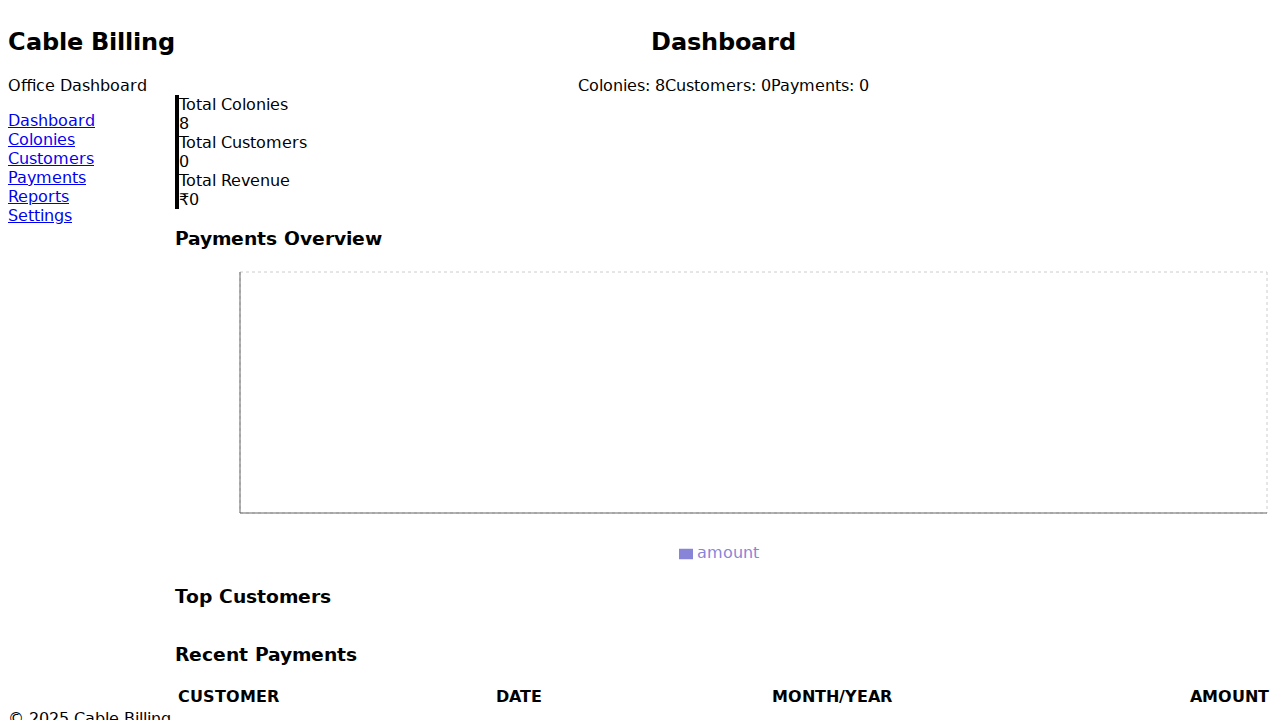
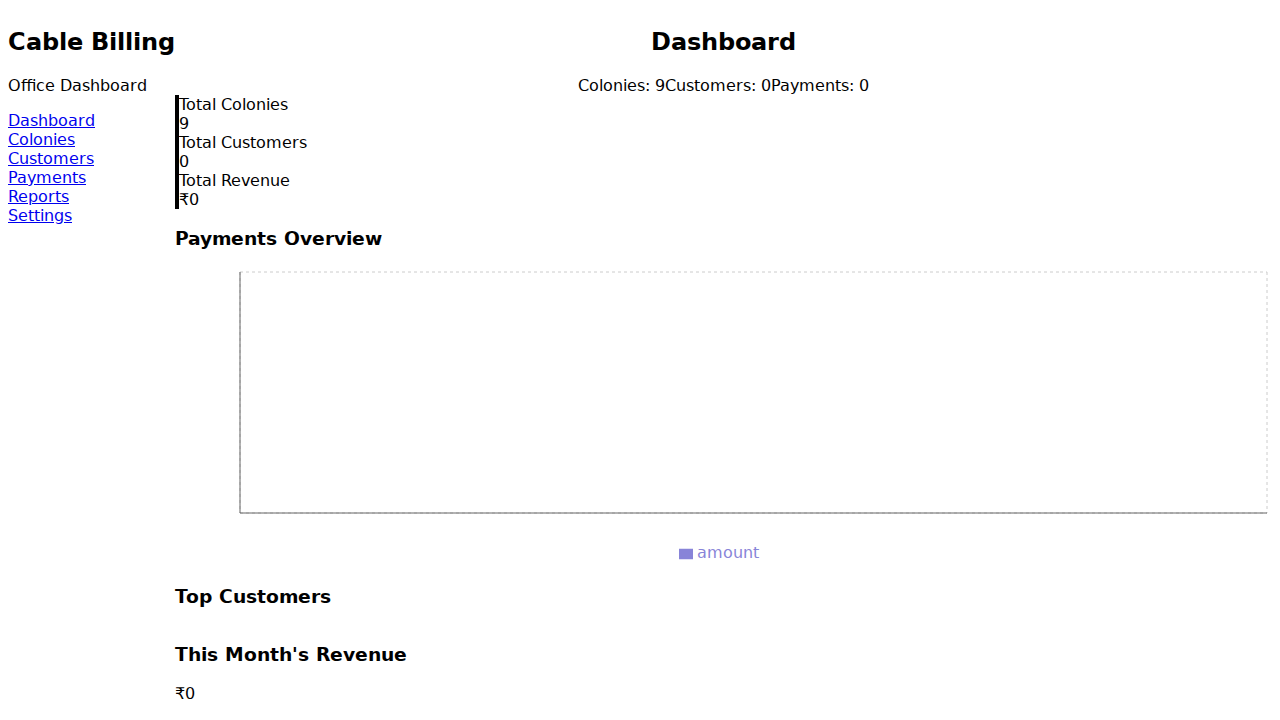
feat: Improve dashboard UI and add new features
This commit introduces several improvements to the dashboard:

- **New Features:**
  - A payments overview chart to visualize payments over time.
  - A list of top customers by payment amount.
  - A restyled recent payments table.
  - A monthly revenue summary.
  - A payment history page for each customer.
  - A feature to automatically calculate the outstanding balance for each customer.
- **Styling:**
  - Updated the design of the `StatsCard` component.
  - Added a header to the dashboard page.
- **Refactoring:**
  - Created separate components for the payments chart, recent payments table, top customers list, and monthly revenue summary.
- **Project Setup:**
  - Added a `.gitignore` file to the root directory.
  - Updated the `README.md` file with more details about the project.
- **Backend:**
  - Updated the MongoDB connection string.
  - Added better error handling for the database connection.
  - Added a new field to the `Customer` model to track the outstanding balance.
  - Updated the payment creation route to automatically adjust the customer's outstanding balance.
  - Added a new API endpoint to get the payment history for a specific customer.
  - Added a new route to manually trigger the calculation of the outstanding balance for all customers.

diff --git a/frontend/src/pages/PaymentHistory.jsx b/frontend/src/pages/PaymentHistory.jsx
@@ -1,0 +1,57 @@
+import React, { useEffect, useState } from "react";
+import { useParams, Link } from "react-router-dom";
+import axios from "axios";
+
+const API = "http://localhost:5000/api";
+
+function PaymentHistory() {
+  const { customerId } = useParams();
+  const [payments, setPayments] = useState([]);
+  const [customer, setCustomer] = useState(null);
+
+  useEffect(() => {
+    axios.get(`${API}/customers/${customerId}`).then(res => setCustomer(res.data));
+    axios.get(`${API}/payments/history/${customerId}`).then(res => setPayments(res.data));
+  }, [customerId]);
+
+  return (
+    <div className="p-8">
+      <Link to="/customers" className="text-blue-500 hover:underline mb-4 inline-block">&larr; Back to Customers</Link>
+      {customer && (
+        <h2 className="text-2xl font-bold mb-8 text-gray-800">
+          Payment History for {customer.name}
+        </h2>
+      )}
+      <div className="bg-white rounded-xl shadow-lg p-6">
+        <div className="overflow-x-auto">
+          <table className="min-w-full bg-white">
+            <thead className="bg-gray-200 text-gray-600 uppercase text-sm leading-normal">
+              <tr>
+                <th className="py-3 px-6 text-left">Date</th>
+                <th className="py-3 px-6 text-center">Month/Year</th>
+                <th className="py-3 px-6 text-right">Amount</th>
+              </tr>
+            </thead>
+            <tbody className="text-gray-600 text-sm font-light">
+              {payments.map(p => (
+                <tr key={p._id} className="border-b border-gray-200 hover:bg-gray-100">
+                  <td className="py-3 px-6 text-left">
+                    {p.payment_date ? new Date(p.payment_date).toLocaleDateString() : "N/A"}
+                  </td>
+                  <td className="py-3 px-6 text-center">
+                    {p.month}/{p.year}
+                  </td>
+                  <td className="py-3 px-6 text-right font-semibold">
+                    ₹{p.amount_paid}
+                  </td>
+                </tr>
+              ))}
+            </tbody>
+          </table>
+        </div>
+      </div>
+    </div>
+  );
+}
+
+export default PaymentHistory;

diff --git a/frontend/src/components/CustomerList.jsx b/frontend/src/components/CustomerList.jsx
@@ -1,4 +1,5 @@
 import React from "react";
+import { Link } from "react-router-dom";
 
 function CustomerList({ customers }) {
   return (
@@ -18,7 +19,9 @@ function CustomerList({ customers }) {
             <th className="border px-2 py-1">Type</th>
             <th className="border px-2 py-1">Plan</th>
             <th className="border px-2 py-1">Charge</th>
+            <th className="border px-2 py-1">Outstanding Balance</th>
             <th className="border px-2 py-1">Status</th>
+            <th className="border px-2 py-1">Actions</th>
           </tr>
         </thead>
         <tbody>
@@ -35,7 +38,13 @@ function CustomerList({ customers }) {
               <td className="border px-2 py-1">{c.connection_type}</td>
               <td className="border px-2 py-1">{c.plan}</td>
               <td className="border px-2 py-1">{c.monthly_charge}</td>
+              <td className="border px-2 py-1">₹{c.outstanding_balance}</td>
               <td className="border px-2 py-1">{c.status}</td>
+              <td className="border px-2 py-1">
+                <Link to={`/payment-history/${c._id}`} className="text-blue-500 hover:underline">
+                  View History
+                </Link>
+              </td>
             </tr>
           ))}
         </tbody>

diff --git a/backend/routes/customerRoutes.js b/backend/routes/customerRoutes.js
@@ -1,5 +1,6 @@
 const express = require("express");
 const Customer = require("../models/Customer");
+const Payment = require("../models/Payment");
 const router = express.Router();
 
 // Get all customers
@@ -20,3 +21,25 @@ router.post("/", async (req, res) => {
 });
 
 module.exports = router;
+
+// Calculate outstanding balance for all customers
+router.post("/calculate-outstanding", async (req, res) => {
+  try {
+    const customers = await Customer.find();
+    for (const customer of customers) {
+      const payments = await Payment.find({ customer_id: customer._id });
+      const totalPaid = payments.reduce((sum, p) => sum + p.amount_paid, 0);
+
+      const today = new Date();
+      const connectionDate = new Date(customer.connection_date);
+      const months = (today.getFullYear() - connectionDate.getFullYear()) * 12 + (today.getMonth() - connectionDate.getMonth());
+      const totalCharged = months * customer.monthly_charge;
+
+      customer.outstanding_balance = totalCharged - totalPaid;
+      await customer.save();
+    }
+    res.json({ message: "Outstanding balances calculated successfully." });
+  } catch (err) {
+    res.status(400).json({ error: err.message });
+  }
+});

diff --git a/frontend/src/components/MonthlyRevenue.jsx b/frontend/src/components/MonthlyRevenue.jsx
@@ -1,0 +1,33 @@
+import React, { useEffect, useState } from "react";
+import axios from "axios";
+
+const API = "http://localhost:5000/api";
+
+function MonthlyRevenue() {
+  const [monthlyRevenue, setMonthlyRevenue] = useState(0);
+
+  useEffect(() => {
+    axios.get(`${API}/payments`).then(res => {
+      const payments = res.data;
+      const currentMonth = new Date().getMonth();
+      const currentYear = new Date().getFullYear();
+      const monthlyPayments = payments.filter(p => {
+        const paymentDate = new Date(p.payment_date);
+        return paymentDate.getMonth() === currentMonth && paymentDate.getFullYear() === currentYear;
+      });
+      const totalRevenue = monthlyPayments.reduce((sum, p) => sum + p.amount_paid, 0);
+      setMonthlyRevenue(totalRevenue);
+    });
+  }, []);
+
+  return (
+    <div className="bg-white rounded-xl shadow-lg p-6">
+      <h3 className="text-xl font-bold mb-6 text-gray-800">This Month's Revenue</h3>
+      <p className="text-4xl font-bold text-green-600">
+        ₹{monthlyRevenue.toLocaleString()}
+      </p>
+    </div>
+  );
+}
+
+export default MonthlyRevenue;

diff --git a/backend/routes/paymentRoutes.js b/backend/routes/paymentRoutes.js
@@ -1,5 +1,6 @@
 const express = require("express");
 const Payment = require("../models/Payment");
+const Customer = require("../models/Customer");
 const router = express.Router();
 
 // Get all payments
@@ -13,7 +14,23 @@ router.post("/", async (req, res) => {
   try {
     const payment = new Payment(req.body);
     await payment.save();
+
+    // Update customer's outstanding balance
+    const customer = await Customer.findById(payment.customer_id);
+    customer.outstanding_balance -= payment.amount_paid;
+    await customer.save();
+
     res.json(payment);
+  } catch (err) {
+    res.status(400).json({ error: err.message });
+  }
+});
+
+// Get payment history for a customer
+router.get("/history/:customerId", async (req, res) => {
+  try {
+    const payments = await Payment.find({ customer_id: req.params.customerId });
+    res.json(payments);
   } catch (err) {
     res.status(400).json({ error: err.message });
   }

diff --git a/frontend/src/pages/Dashboard.jsx b/frontend/src/pages/Dashboard.jsx
@@ -5,6 +5,7 @@ import Header from "../components/Header";
 import PaymentsChart from "../components/PaymentsChart";
 import TopCustomers from "../components/TopCustomers";
 import RecentPayments from "../components/RecentPayments";
+import MonthlyRevenue from "../components/MonthlyRevenue";
 import { UserGroupIcon, HomeIcon, CurrencyDollarIcon } from "@heroicons/react/24/outline";
 
 const API = "http://localhost:5000/api";
@@ -57,8 +58,9 @@ function Dashboard() {
         <div className="xl:col-span-2">
           <PaymentsChart payments={payments} />
         </div>
-        <div>
+        <div className="flex flex-col gap-8">
           <TopCustomers payments={payments} />
+          <MonthlyRevenue />
         </div>
       </div>
       <RecentPayments payments={payments} />

diff --git a/frontend/src/App.jsx b/frontend/src/App.jsx
@@ -8,6 +8,7 @@ import Customers from "./pages/Customers";
 import Payments from "./pages/Payments";
 import Reports from "./pages/Reports";
 import Settings from "./pages/Settings";
+import PaymentHistory from "./pages/PaymentHistory";
 
 function App() {
   // For header stats, you can fetch and pass counts if needed.
@@ -25,6 +26,7 @@ function App() {
             <Route path="/payments" element={<Payments />} />
             <Route path="/reports" element={<Reports />} />
             <Route path="/settings" element={<Settings />} />
+            <Route path="/payment-history/:customerId" element={<PaymentHistory />} />
           </Routes>
         </main>
       </div>

diff --git a/backend/models/Customer.js b/backend/models/Customer.js
@@ -12,6 +12,7 @@ const customerSchema = new mongoose.Schema({
   connection_type: String,
   plan: String,
   monthly_charge: Number,
+  outstanding_balance: { type: Number, default: 0 },
   status: { type: String, default: "Active" }
 });
 
